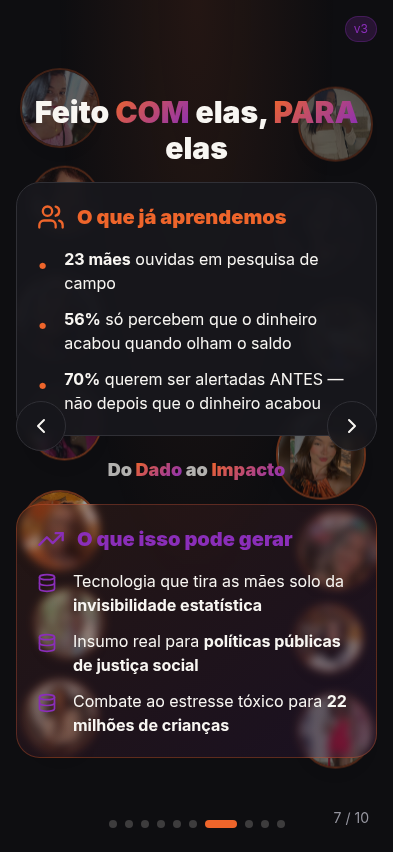
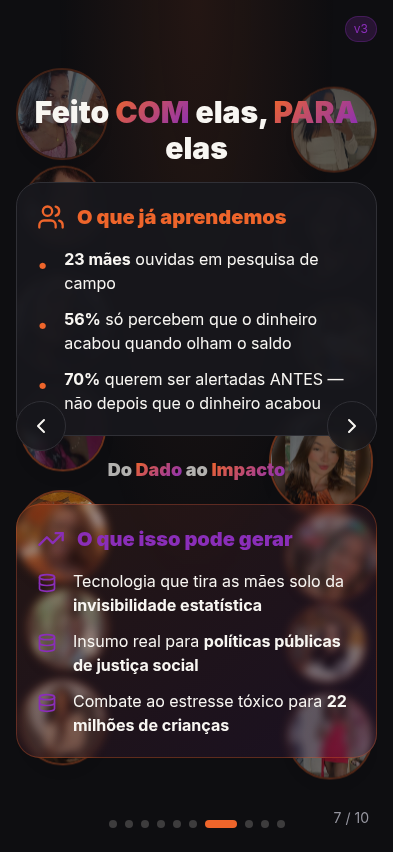
style(v3): increase bubble sizes and move to edges in SlideTraction

diff --git a/src/components/presentation/v3/SlideTraction.tsx b/src/components/presentation/v3/SlideTraction.tsx
@@ -25,24 +25,24 @@ interface SlideTractionProps {
 }
 
 const SlideTraction = ({ isActive, transition }: SlideTractionProps) => {
-  // 14 bubbles with mother photos - more visible (less transparency)
+  // 14 bubbles with mother photos - 15% larger and moved to the edges
   const bubbles = [
-    // Left side - 7 bubbles (adjusted positions to stay visible)
-    { id: 1, photo: mae1, top: "3%", left: "1%", size: 80, animDelay: "0s" },
-    { id: 2, photo: mae2, top: "15%", left: "4%", size: 70, animDelay: "0.8s" },
-    { id: 3, photo: mae3, top: "28%", left: "0%", size: 85, animDelay: "1.6s" },
-    { id: 4, photo: mae4, top: "42%", left: "3%", size: 75, animDelay: "2.4s" },
-    { id: 5, photo: mae5, top: "56%", left: "1%", size: 80, animDelay: "3.2s" },
-    { id: 6, photo: mae6, top: "70%", left: "5%", size: 70, animDelay: "4s" },
-    { id: 7, photo: mae7, top: "84%", left: "2%", size: 75, animDelay: "4.8s" },
-    // Right side - 7 bubbles (adjusted positions to stay visible)
-    { id: 8, photo: mae8, top: "5%", right: "1%", size: 75, animDelay: "0.4s" },
-    { id: 9, photo: mae9, top: "18%", right: "5%", size: 80, animDelay: "1.2s" },
-    { id: 10, photo: mae10, top: "31%", right: "0%", size: 72, animDelay: "2s" },
-    { id: 11, photo: mae11, top: "45%", right: "3%", size: 90, animDelay: "2.8s" },
-    { id: 12, photo: mae12, top: "59%", right: "0%", size: 78, animDelay: "3.6s" },
-    { id: 13, photo: mae13, top: "73%", right: "4%", size: 68, animDelay: "4.4s" },
-    { id: 14, photo: mae14, top: "87%", right: "1%", size: 75, animDelay: "5.2s" },
+    // Left side - 7 bubbles (moved further to the edges)
+    { id: 1, photo: mae1, top: "3%", left: "0%", size: 92, animDelay: "0s" },
+    { id: 2, photo: mae2, top: "15%", left: "2%", size: 81, animDelay: "0.8s" },
+    { id: 3, photo: mae3, top: "28%", left: "-1%", size: 98, animDelay: "1.6s" },
+    { id: 4, photo: mae4, top: "42%", left: "1%", size: 86, animDelay: "2.4s" },
+    { id: 5, photo: mae5, top: "56%", left: "0%", size: 92, animDelay: "3.2s" },
+    { id: 6, photo: mae6, top: "70%", left: "3%", size: 81, animDelay: "4s" },
+    { id: 7, photo: mae7, top: "84%", left: "1%", size: 86, animDelay: "4.8s" },
+    // Right side - 7 bubbles (moved further to the edges)
+    { id: 8, photo: mae8, top: "5%", right: "0%", size: 86, animDelay: "0.4s" },
+    { id: 9, photo: mae9, top: "18%", right: "2%", size: 92, animDelay: "1.2s" },
+    { id: 10, photo: mae10, top: "31%", right: "-1%", size: 83, animDelay: "2s" },
+    { id: 11, photo: mae11, top: "45%", right: "1%", size: 104, animDelay: "2.8s" },
+    { id: 12, photo: mae12, top: "59%", right: "0%", size: 90, animDelay: "3.6s" },
+    { id: 13, photo: mae13, top: "73%", right: "3%", size: 78, animDelay: "4.4s" },
+    { id: 14, photo: mae14, top: "87%", right: "1%", size: 86, animDelay: "5.2s" },
   ];
 
   return (
@@ -52,7 +52,7 @@ const SlideTraction = ({ isActive, transition }: SlideTractionProps) => {
         {bubbles.map((bubble) => (
           <div
             key={bubble.id}
-            className={`absolute rounded-full overflow-hidden border-2 border-primary/70 shadow-lg animate-slide-down transition-all duration-300 cursor-pointer hover:opacity-100 hover:scale-110 hover:border-primary hover:shadow-xl hover:z-20 ${isActive ? 'opacity-70' : 'opacity-0'}`}
+            className={`absolute rounded-full overflow-hidden border-2 border-primary/70 shadow-lg animate-slide-down transition-all duration-300 cursor-pointer hover:opacity-100 hover:scale-110 hover:border-primary hover:shadow-xl hover:z-20 ${isActive ? 'opacity-80' : 'opacity-0'}`}
             style={{
               top: bubble.top,
               left: bubble.left,
